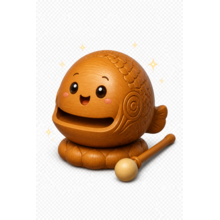
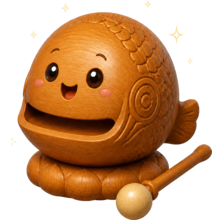
fix tarot interaction and animate mokugyo strike

diff --git a/src/renderer/scripts/widgets/tarot.js b/src/renderer/scripts/widgets/tarot.js
@@ -1,275 +1,63 @@
-/* ============================================================
-   每日塔罗牌 - 支持单牌和三牌阵模式
-   ============================================================ */
-
+/* 每日塔罗：稳定的单牌翻牌小游戏，每天固定一张牌 */
 const TarotWidget = {
-  MAJOR_ARCANA: [
-    { num: 0,  name: '愚者', emoji: '🤡', upright: '新的开始、冒险、无限可能', reversed: '鲁莽、冲动、缺乏计划' },
-    { num: 1,  name: '魔术师', emoji: '🎩', upright: '创造力、意志力、行动力', reversed: '欺骗、缺乏自信、能力不足' },
-    { num: 2,  name: '女祭司', emoji: '🌙', upright: '直觉、智慧、内在力量', reversed: '缺乏直觉、信息被隐藏' },
-    { num: 3,  name: '皇后', emoji: '👑', upright: '丰收、母性、创造', reversed: '过度依赖、创造力受阻' },
-    { num: 4,  name: '皇帝', emoji: '🏛', upright: '权威、稳定、领导力', reversed: '专制、固执、权力滥用' },
-    { num: 5,  name: '教皇', emoji: '⛩', upright: '信仰、传统、精神引导', reversed: '反叛、打破常规、非传统' },
-    { num: 6,  name: '恋人', emoji: '💕', upright: '爱情、选择、和谐', reversed: '分歧、错误选择、失衡' },
-    { num: 7,  name: '战车', emoji: '⚔', upright: '胜利、意志、克服困难', reversed: '失控、方向不明、挫折' },
-    { num: 8,  name: '力量', emoji: '🦁', upright: '勇气、内在力量、耐心', reversed: '自我怀疑、懦弱、失控' },
-    { num: 9,  name: '隐士', emoji: '🏮', upright: '内省、独处、寻求答案', reversed: '孤立、封闭、拒绝建议' },
-    { num: 10, name: '命运之轮', emoji: '🎡', upright: '转机、好运、命运改变', reversed: '逆境、失控、坏运气' },
-    { num: 11, name: '正义', emoji: '⚖', upright: '公平、真相、因果', reversed: '不公、偏见、逃避责任' },
-    { num: 12, name: '倒吊人', emoji: '🙃', upright: '牺牲、换角度思考、等待', reversed: '无谓牺牲、停滞、固执' },
-    { num: 13, name: '死神', emoji: '💀', upright: '转变、结束、重生', reversed: '抗拒改变、无法放手' },
-    { num: 14, name: '节制', emoji: '🍷', upright: '平衡、调和、耐心', reversed: '失衡、过度、不协调' },
-    { num: 15, name: '恶魔', emoji: '😈', upright: '束缚、欲望、物质主义', reversed: '解脱、觉醒、挣脱束缚' },
-    { num: 16, name: '高塔', emoji: '🗼', upright: '突变、颠覆、觉醒', reversed: '避免灾难、抗拒变化' },
-    { num: 17, name: '星星', emoji: '⭐', upright: '希望、灵感、宁静', reversed: '失望、悲观、失去信心' },
-    { num: 18, name: '月亮', emoji: '🌕', upright: '幻觉、潜意识、直觉', reversed: '释怀、真相浮现、消除恐惧' },
-    { num: 19, name: '太阳', emoji: '☀', upright: '快乐、成功、活力', reversed: '暂时的挫折、过度乐观' },
-    { num: 20, name: '审判', emoji: '📯', upright: '重生、觉醒、救赎', reversed: '自我怀疑、错失机会' },
-    { num: 21, name: '世界', emoji: '🌍', upright: '圆满、完成、成就', reversed: '未完成、停滞、差一步' },
+  CARDS: [
+    ['愚人', '新的旅程正在展开，保持好奇，勇敢迈出第一步。', '🌱'],
+    ['魔术师', '今天适合把想法变成行动，你拥有足够的资源。', '✨'],
+    ['女祭司', '相信直觉，安静观察会让答案自己浮现。', '🌙'],
+    ['皇后', '适合照顾自己，也适合让美好和创造力生长。', '🌷'],
+    ['皇帝', '建立秩序、明确边界，稳稳推进重要的事情。', '🛡'],
+    ['恋人', '真诚沟通会带来连接，也提醒你做出内心认可的选择。', '💞'],
+    ['战车', '目标感很强的一天，集中力量就能突破阻力。', '🏇'],
+    ['力量', '温柔不是退让，耐心和勇气会帮你化解难题。', '🦁'],
+    ['星星', '保持希望，今天适合疗愈、规划和相信未来。', '⭐'],
+    ['太阳', '明亮顺利的一天，大方表达自己会收获好消息。', '☀'],
+    ['世界', '一个阶段正在圆满收尾，准备迎接新的完整循环。', '🌍'],
+    ['节制', '放慢一点，把不同的事情调和到舒服的节奏。', '🪽']
   ],
 
-  _mode: 'single',  // 'single' 或 'three'
+  init() { this.render(); },
 
-  init() {
-    this._render();
+  today() {
+    const d = new Date();
+    return `${d.getFullYear()}-${d.getMonth() + 1}-${d.getDate()}`;
   },
 
-  _render() {
-    const el = document.querySelector('.widget[data-widget="tarot"] .widget__inner');
-    if (!el) return;
-
-    const today = new Date().toDateString();
-    const lastDraw = Store.get('tarotLastDraw');
-    const mode = Store.get('tarotMode') || 'single';
-
-    if (lastDraw === today && Store.get('tarotResult')) {
-      // 今天已抽牌，显示结果
-      const result = Store.get('tarotResult');
-      el.innerHTML = this._renderResult(result);
-    } else {
-      // 未抽牌
-      el.innerHTML = this._renderDraw(mode);
-    }
-    this._bindEvents();
+  getTodayCard() {
+    const saved = Store.get('tarotDaily') || {};
+    return saved.date === this.today() && Number.isInteger(saved.index) ? this.CARDS[saved.index] : null;
   },
 
-  _renderDraw(mode) {
-    const singleActive = mode !== 'three';
-    return `
-      <div class="tarot">
-        <div class="tarot__header"><span>🔮 每日塔罗</span></div>
-        <div class="tarot__mode-switch no-drag">
-          <span class="tarot__mode-btn ${singleActive?'tarot__mode--active':''}" id="tarot-mode-single">单张</span>
-          <span class="tarot__mode-btn ${!singleActive?'tarot__mode--active':''}" id="tarot-mode-three">三牌阵</span>
+  render() {
+    const inner = document.querySelector('.widget[data-widget="tarot"] .widget__inner');
+    if (!inner) return;
+    const card = this.getTodayCard();
+    inner.innerHTML = `
+      <div class="tarot no-drag">
+        <div class="tarot__title">🔮 每日塔罗</div>
+        <div class="tarot__simple-card ${card ? 'is-open' : ''}" id="tarot-simple-card">
+          ${card ? `<div class="tarot__simple-emoji">${card[2]}</div><b>${card[0]}</b><p>${card[1]}</p>` : '<div class="tarot__simple-back">✦<small>静心后点击翻牌</small></div>'}
         </div>
-        <div class="tarot__card-area" id="tarot-card-area">
-          ${this._renderCards(mode)}
-        </div>
-        <div class="tarot__hint">${singleActive ? '静心冥想，抽一张牌' : '过去 · 现在 · 未来，抽三张牌'}</div>
-      </div>
-    `;
+        <button class="tarot__simple-btn" id="tarot-simple-draw" ${card ? 'disabled' : ''}>${card ? '今日已抽取 · 明天再来' : '翻开今日牌面'}</button>
+      </div>`;
+    const button = inner.querySelector('#tarot-simple-draw');
+    if (button && !card) button.addEventListener('click', () => this.draw(inner));
   },
 
-  _renderCards(mode) {
-    if (mode === 'three') {
-      return `
-        <div class="tarot__three">
-          <div class="tarot__card-slot">
-            <div class="tarot__card-label-small">过去</div>
-            <div class="tarot__card-back no-drag tarot__draw-btn" data-pos="0">
-              <div class="tarot__card-pattern"><div class="tarot__card-star">✦</div></div>
-            </div>
-          </div>
-          <div class="tarot__card-slot">
-            <div class="tarot__card-label-small">现在</div>
-            <div class="tarot__card-back no-drag tarot__draw-btn" data-pos="1">
-              <div class="tarot__card-pattern"><div class="tarot__card-star">✦</div></div>
-            </div>
-          </div>
-          <div class="tarot__card-slot">
-            <div class="tarot__card-label-small">未来</div>
-            <div class="tarot__card-back no-drag tarot__draw-btn" data-pos="2">
-              <div class="tarot__card-pattern"><div class="tarot__card-star">✦</div></div>
-            </div>
-          </div>
-        </div>
-      `;
-    }
-    return `
-      <div class="tarot__card-back no-drag tarot__draw-btn" data-pos="0">
-        <div class="tarot__card-pattern">
-          <div class="tarot__card-star">✦</div>
-          <div class="tarot__card-circle"></div>
-          <div class="tarot__card-inner-star">✧</div>
-        </div>
-        <div class="tarot__card-label">点击抽牌</div>
-      </div>
-    `;
-  },
-
-  _renderResult(result) {
-    const mode = result.mode || 'single';
-    const drawDate = new Date();
-    const dateStr = `${drawDate.getMonth()+1}月${drawDate.getDate()}日`;
-
-    if (mode === 'three') {
-      const positions = ['过去', '现在', '未来'];
-      const cardsHtml = result.cards.map((c, i) => {
-        const card = this.MAJOR_ARCANA[c.idx];
-        const meaning = c.reversed ? card.reversed : card.upright;
-        const position = c.reversed ? '逆位' : '正位';
-        return `
-          <div class="tarot__three-card">
-            <div class="tarot__three-label">${positions[i]}</div>
-            <div class="tarot__card-front ${c.reversed ? 'tarot__reversed' : 'tarot__upright'} tarot__three-card-face">
-              <div class="tarot__card-emoji ${c.reversed ? 'tarot__card-flipped' : ''}">${card.emoji}</div>
-              <div class="tarot__card-name">${card.name}</div>
-              <div class="tarot__card-position">${position}</div>
-            </div>
-            <div class="tarot__three-meaning">${meaning}</div>
-          </div>
-        `;
-      }).join('');
-
-      return `
-        <div class="tarot tarot--three-mode">
-          <div class="tarot__header">
-            <span>🔮 每日塔罗 · 三牌阵</span>
-            <span class="tarot__date">${dateStr}</span>
-          </div>
-          <div class="tarot__three tarot__three-result">${cardsHtml}</div>
-          <div class="tarot__hint">明日再来 ✨</div>
-        </div>
-      `;
-    }
-
-    // 单张结果
-    const card = this.MAJOR_ARCANA[result.cards[0].idx];
-    const isReversed = result.cards[0].reversed;
-    const meaning = isReversed ? card.reversed : card.upright;
-    const position = isReversed ? '逆位' : '正位';
-
-    return `
-      <div class="tarot">
-        <div class="tarot__header">
-          <span>🔮 每日塔罗</span>
-          <span class="tarot__date">${dateStr}</span>
-        </div>
-        <div class="tarot__card-area">
-          <div class="tarot__card-front ${isReversed ? 'tarot__reversed' : 'tarot__upright'}">
-            <div class="tarot__card-emoji ${isReversed ? 'tarot__card-flipped' : ''}">${card.emoji}</div>
-            <div class="tarot__card-num">${card.num}</div>
-            <div class="tarot__card-name">${card.name}</div>
-            <div class="tarot__card-position">${position}</div>
-          </div>
-        </div>
-        <div class="tarot__meaning">
-          <div class="tarot__meaning-label">${card.name} · ${position}</div>
-          <div class="tarot__meaning-text">${meaning}</div>
-        </div>
-        <div class="tarot__hint">明日再来 ✨</div>
-      </div>
-    `;
-  },
-
-  _bindEvents() {
-    // 模式切换
-    const singleBtn = document.getElementById('tarot-mode-single');
-    const threeBtn = document.getElementById('tarot-mode-three');
-    if (singleBtn) singleBtn.addEventListener('click', () => { Store.set('tarotMode', 'single'); this._render(); });
-    if (threeBtn) threeBtn.addEventListener('click', () => { Store.set('tarotMode', 'three'); this._render(); });
-
-    // 抽牌
-    document.querySelectorAll('.tarot__draw-btn').forEach(btn => {
-      btn.addEventListener('click', (e) => {
-        const pos = parseInt(btn.dataset.pos) || 0;
-        this._drawOne(pos, btn);
-      });
-    });
-  },
-
-  _drawOne(pos, btnEl) {
-    const mode = Store.get('tarotMode') || 'single';
-    const cardIdx = Math.floor(Math.random() * this.MAJOR_ARCANA.length);
-    const isReversed = Math.random() < 0.5;
-
-    // 翻牌动画
-    if (btnEl) {
-      btnEl.style.transition = 'transform 0.5s, opacity 0.5s';
-      btnEl.style.transform = 'rotateY(180deg) scale(0.7)';
-      btnEl.style.opacity = '0';
-    }
-
-    // 读取已有的抽牌结果（三牌阵可能已经抽了一两张）
-    let result = Store.get('tarotDrawProgress') || { mode, cards: [] };
-
-    // 填入对应位置
-    if (!result.cards) result.cards = [];
-    while (result.cards.length <= pos) result.cards.push(null);
-    result.cards[pos] = { idx: cardIdx, reversed: isReversed };
-    Store.set('tarotDrawProgress', result);
-
-    // 检查是否抽完
-    const totalNeeded = mode === 'three' ? 3 : 1;
-    const drawn = result.cards.filter(c => c !== null).length;
-
-    if (drawn >= totalNeeded) {
-      // 全部抽完，保存最终结果
-      setTimeout(() => {
-        const today = new Date().toDateString();
-        Store.set('tarotLastDraw', today);
-        Store.set('tarotResult', result);
-        Store.set('tarotDrawProgress', null);
-        this._render();
-      }, 500);
-    } else {
-      // 还有牌要抽，刷新界面
-      setTimeout(() => {
-        this._renderDrawPartial(result, mode);
-      }, 500);
-    }
-  },
-
-  /** 三牌阵部分抽完时的渲染 */
-  _renderDrawPartial(result, mode) {
-    const positions = ['过去', '现在', '未来'];
-    const html = `
-      <div class="tarot__three">
-        ${positions.map((label, i) => {
-          const c = result.cards[i];
-          if (c) {
-            // 已抽：显示牌面
-            const card = this.MAJOR_ARCANA[c.idx];
-            return `
-              <div class="tarot__card-slot">
-                <div class="tarot__card-label-small">${label}</div>
-                <div class="tarot__card-front ${c.reversed?'tarot__reversed':'tarot__upright'} tarot__mini-card">
-                  <div class="tarot__card-emoji ${c.reversed?'tarot__card-flipped':''}">${card.emoji}</div>
-                  <div class="tarot__card-name-small">${card.name}</div>
-                </div>
-              </div>
-            `;
-          }
-          // 未抽：显示牌背
-          return `
-            <div class="tarot__card-slot">
-              <div class="tarot__card-label-small">${label}</div>
-              <div class="tarot__card-back no-drag tarot__draw-btn" data-pos="${i}">
-                <div class="tarot__card-pattern"><div class="tarot__card-star">✦</div></div>
-              </div>
-            </div>
-          `;
-        }).join('')}
-      </div>
-    `;
-    const area = document.getElementById('tarot-card-area');
-    if (area) {
-      area.innerHTML = html;
-      document.querySelectorAll('.tarot__draw-btn').forEach(btn => {
-        btn.addEventListener('click', () => {
-          this._drawOne(parseInt(btn.dataset.pos), btn);
-        });
-      });
-    }
+  draw(inner) {
+    const day = this.today();
+    let seed = 0;
+    for (const char of day) seed = (seed * 31 + char.charCodeAt(0)) >>> 0;
+    const index = seed % this.CARDS.length;
+    Store.set('tarotDaily', { date: day, index });
+    const card = this.CARDS[index];
+    const panel = inner.querySelector('#tarot-simple-card');
+    if (!panel) return;
+    panel.classList.add('tarot__simple-flip');
+    setTimeout(() => {
+      panel.className = 'tarot__simple-card is-open';
+      panel.innerHTML = `<div class="tarot__simple-emoji">${card[2]}</div><b>${card[0]}</b><p>${card[1]}</p>`;
+      const button = inner.querySelector('#tarot-simple-draw');
+      if (button) { button.disabled = true; button.textContent = '今日已抽取 · 明天再来'; }
+    }, 280);
   }
 };

diff --git a/src/renderer/styles/widgets.css b/src/renderer/styles/widgets.css
@@ -163,20 +163,36 @@ body.interactive .widget__resize {
 .mokugyo__stage { position:relative; border:0; background:transparent; cursor:pointer; padding:0; width:150px; height:160px; }
 .mokugyo__stage img { width:150px; height:150px; object-fit:contain; transition:transform .12s; }
 .mokugyo__stage:hover img { filter:drop-shadow(0 0 12px rgba(251,191,36,.65)); }
-.mokugyo--hit img { animation:mokugyoHit .32s ease-out; }
+.mokugyo__hammer { position:absolute; right:4px; top:20px; width:44px; height:10px; border-radius:8px; background:linear-gradient(90deg,#7c2d12,#f59e0b); transform:rotate(-48deg); transform-origin:38px 5px; box-shadow:0 2px 4px rgba(0,0,0,.3); z-index:2; }
+.mokugyo__hammer::after { content:''; position:absolute; right:-7px; top:-7px; width:22px; height:24px; border-radius:50%; background:#fbbf24; box-shadow:inset -3px -3px 4px rgba(120,53,15,.25); }
+.mokugyo--hit img { animation:mokugyoBodyHit .32s ease-out; }
+.mokugyo--hit .mokugyo__hammer { animation:mokugyoHammerHit .38s cubic-bezier(.2,.8,.3,1); }
+.mokugyo__impact { position:absolute; left:64px; top:94px; color:#fde68a; font-size:20px; opacity:0; z-index:3; }
+.mokugyo--hit .mokugyo__impact { animation:mokugyoImpact .55s ease-out; }
 .mokugyo__sparkle { position:absolute; right:5px; top:20px; color:#fde68a; opacity:0; }
 .mokugyo--hit .mokugyo__sparkle { animation:mokugyoSparkle .7s ease-out; }
 .mokugyo__merit { font-size:16px; color:#fef3c7; }
 .mokugyo__merit b { color:#fbbf24; font-size:24px; margin-left:5px; }
 .mokugyo__hint { color:rgba(254,243,199,.55); font-size:11px; }
 .mokugyo__plus { position:absolute; top:85px; color:#fbbf24; font-weight:700; animation:mokugyoPlus .9s ease-out forwards; pointer-events:none; }
-@keyframes mokugyoHit { 0%,100%{transform:rotate(0) scale(1)} 35%{transform:rotate(-8deg) scale(.92)} 70%{transform:rotate(5deg) scale(1.04)} }
+@keyframes mokugyoBodyHit { 0%,100%{transform:translateY(0) rotate(0)} 35%{transform:translateY(4px) rotate(-2deg)} 70%{transform:translateY(-2px) rotate(1deg)} }
+@keyframes mokugyoHammerHit { 0%{transform:rotate(-48deg)} 45%{transform:rotate(24deg)} 70%{transform:rotate(4deg)} 100%{transform:rotate(-48deg)} }
+@keyframes mokugyoImpact { 0%{opacity:0;transform:scale(.4)} 35%{opacity:1;transform:scale(1.3)} 100%{opacity:0;transform:translateY(-18px) scale(.8)} }
 @keyframes mokugyoSparkle { 0%{opacity:0;transform:scale(.4)} 30%{opacity:1;transform:scale(1.4)} 100%{opacity:0;transform:translate(15px,-22px) scale(.7)} }
 @keyframes mokugyoPlus { 0%{opacity:0;transform:translateY(10px)} 20%{opacity:1} 100%{opacity:0;transform:translateY(-32px)} }
 
 /* 每日塔罗 */
 .tarot { height:100%; display:flex; flex-direction:column; align-items:center; gap:8px; color:#f5f3ff; }
-.tarot__card { width:150px; height:190px; border-radius:12px; display:flex; flex-direction:column; align-items:center; justify-content:center; padding:14px; text-align:center; background:linear-gradient(145deg,#312e81,#7c3aed); border:1px solid rgba(196,181,253,.6); box-shadow:0 8px 22px rgba(76,29,149,.35); }
+.tarot__simple-card { width:150px; height:190px; border-radius:12px; display:flex; flex-direction:column; align-items:center; justify-content:center; padding:14px; text-align:center; background:linear-gradient(145deg,#312e81,#7c3aed); border:1px solid rgba(196,181,253,.6); box-shadow:0 8px 22px rgba(76,29,149,.35); }
+.tarot__simple-card.is-open { background:linear-gradient(145deg,#4c1d95,#be185d); }
+.tarot__simple-back { font-size:48px; color:#fef3c7; text-shadow:0 0 16px #fbbf24; }
+.tarot__simple-back small { display:block; font-size:12px; margin-top:10px; color:#ddd6fe; }
+.tarot__simple-emoji { font-size:36px; margin-bottom:8px; }
+.tarot__simple-card b { color:#fde68a; font-size:16px; }
+.tarot__simple-card p { color:#ede9fe; font-size:11px; line-height:1.5; margin-top:8px; }
+.tarot__simple-flip { animation:tarotFlip .56s ease-in-out; }
+.tarot__simple-btn { border:1px solid rgba(196,181,253,.5); background:rgba(124,58,237,.4); color:#f5f3ff; border-radius:999px; padding:6px 12px; font-size:11px; cursor:pointer; }
+.tarot__simple-btn:disabled { opacity:.65; cursor:default; }
 .tarot__back { font-size:48px; color:#fef3c7; text-shadow:0 0 16px #fbbf24; }
 .tarot__back small { display:block; font-size:12px; margin-top:10px; color:#ddd6fe; }
 .tarot__emoji { font-size:34px; margin-bottom:8px; }

diff --git a/src/renderer/scripts/widgets/mokugyo.js b/src/renderer/scripts/widgets/mokugyo.js
@@ -16,6 +16,8 @@ const MokugyoWidget = {
         <div class="mokugyo__title">🪵 今日敲木鱼</div>
         <button id="mokugyo-hit" class="mokugyo__stage" aria-label="敲一下木鱼">
           <img src="assets/interactive/mokugyo.png" alt="可爱的木鱼">
+          <span class="mokugyo__hammer" aria-hidden="true"></span>
+          <span class="mokugyo__impact" aria-hidden="true">✦</span>
           <span class="mokugyo__sparkle">✦</span>
         </button>
         <div class="mokugyo__merit">功德 <b id="mokugyo-count">${total}</b></div>
